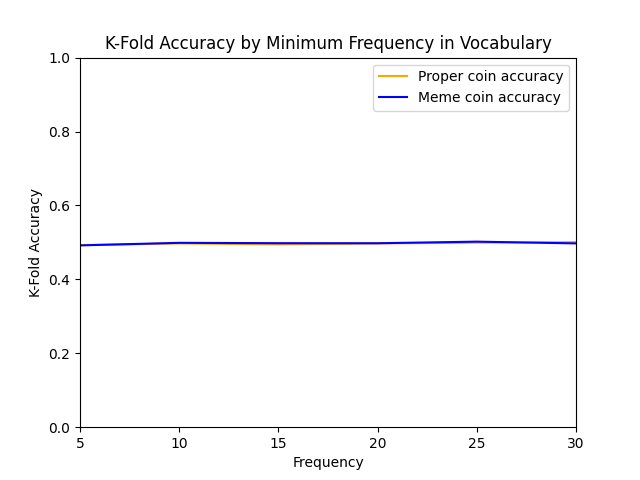
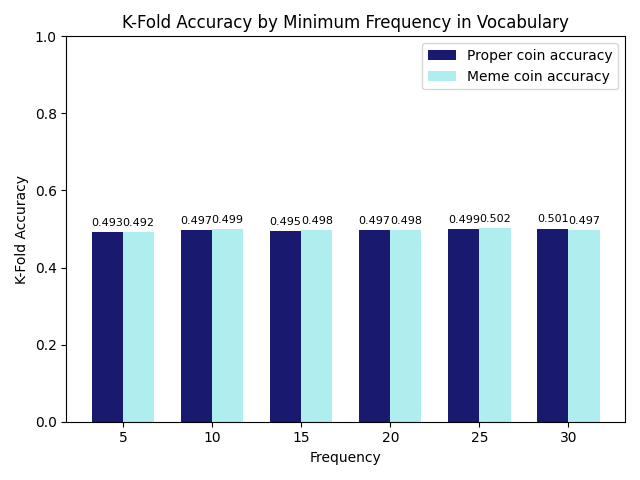
Changed visualizations

diff --git a/final_deliverable/code/ML_redesign/ml.py b/final_deliverable/code/ML_redesign/ml.py
@@ -8,9 +8,10 @@ from sklearn.model_selection import KFold
 from preprocess import create_input_data
 import json
 import matplotlib.pyplot as plt
+import numpy as np
 
 # Set boolean for whether testing should take place
-TESTING = True
+TESTING = False
 
 '''
 This file creates the RNN model, calls for pre-processing, and trains the model on the input data using
@@ -123,7 +124,7 @@ def train_split(X, Y, model):
     model: Input RNN model to train
     '''
     optimizer = optim.Adam(model.parameters(), lr=model.learning_rate)
-    for i in range(len(X)):
+    for i in range(5):
         if i % 1000 == 0:
             print(f'Model has trained on {i} examples.')
         hidden = model.initHidden()
@@ -209,16 +210,21 @@ def test_frequency():
     with open(ROOT_DIR + "/testing_files/frequency_meme_acc.json", "w") as f:
         json.dump(meme_accuracies, f)
     # Plot the results
+    width = 0.35
+    x_loc = np.arange(len(frequencies))
     fig, ax = plt.subplots()
-    plt.xlim([5, 30])
+    rects1 = ax.bar(x_loc - width/2, prop_accuracies, width, label='Proper coin accuracy', color='midnightblue')
+    rects2 = ax.bar(x_loc + width/2, meme_accuracies, width, label='Meme coin accuracy', color='paleturquoise')
+    # Add some text for labels, title and custom x-axis tick labels, etc.
     plt.ylim([0, 1])
-    ax.plot(frequencies, prop_accuracies, "orange", label='Proper coin accuracy')
-    ax.plot(frequencies, meme_accuracies, "blue", label='Meme coin accuracy')
-    # setting labels
     ax.set_xlabel("Frequency")
     ax.set_ylabel("K-Fold Accuracy")
     ax.set_title("K-Fold Accuracy by Minimum Frequency in Vocabulary")
-    plt.legend()
+    ax.set_xticks(x_loc, frequencies)
+    ax.legend(loc="upper right")
+    ax.bar_label(rects1, padding=3, fontsize=8)
+    ax.bar_label(rects2, padding=3, fontsize=8)
+    fig.tight_layout()
     plt.savefig(ROOT_DIR + "/../../visualizations/frequency_testing_graph.png")
     plt.show()
 
@@ -270,16 +276,21 @@ def test_learning_rate(proper_X, proper_Y, meme_X, meme_Y):
     with open(ROOT_DIR + "/testing_files/learning_rate_meme_acc.json", "w") as f:
         json.dump(meme_accuracies, f)
     # Plot the results
+    width = 0.35
+    x_loc = np.arange(len(learning_rates))
     fig, ax = plt.subplots()
-    plt.xlim([-5, 0])
+    rects1 = ax.bar(x_loc - width/2, prop_accuracies, width, label='Proper coin accuracy', color='midnightblue')
+    rects2 = ax.bar(x_loc + width/2, meme_accuracies, width, label='Meme coin accuracy', color='paleturquoise')
+    # Add some text for labels, title and custom x-axis tick labels, etc.
     plt.ylim([0, 1])
-    ax.plot(learning_rates, prop_accuracies, "orange", label='Proper coin accuracy')
-    ax.plot(learning_rates, meme_accuracies, "blue", label='Meme coin accuracy')
-    # setting labels
     ax.set_xlabel("Learning Rate (log unit)")
     ax.set_ylabel("K-Fold Accuracy")
     ax.set_title("K-Fold Accuracy by Learning Rate")
-    plt.legend()
+    ax.set_xticks(x_loc, learning_rates)
+    ax.legend(loc="upper right")
+    ax.bar_label(rects1, padding=3, fontsize=8)
+    ax.bar_label(rects2, padding=3, fontsize=8)
+    fig.tight_layout()
     plt.savefig(ROOT_DIR + "/../../visualizations/learning_rate_testing_graph.png")
     plt.show()
 
@@ -317,7 +328,7 @@ def test_hidden_size(proper_X, proper_Y, meme_X, meme_Y):
         print(f'Meme coin dataset accuracy for hidden size {hidden_size} is {meme_acc}')
         print('——————————————————————————————————————————————————————————')
         with open(ROOT_DIR + "/testing_files/hidden_size_testing.txt", "a") as file:
-            file.write(str(10 ** (-i)) + ', ' + str(proper_acc) + ', ' + str(meme_acc) + '\n')
+            file.write(str(2 ** i) + ', ' + str(proper_acc) + ', ' + str(meme_acc) + '\n')
     # Dump accuracy data into json for safety due to high training times
     if path.isfile(ROOT_DIR + "/testing_files/hidden_sizes.json"):
         os.remove(ROOT_DIR + "/testing_files/hidden_sizes.json")
@@ -332,47 +343,55 @@ def test_hidden_size(proper_X, proper_Y, meme_X, meme_Y):
     with open(ROOT_DIR + "/testing_files/hidden_size_meme_acc.json", "w") as f:
         json.dump(meme_accuracies, f)
     # Plot the results
+    width = 0.35
+    x_loc = np.arange(len(hidden_sizes))
     fig, ax = plt.subplots()
-    plt.xlim([6, 10])
+    rects1 = ax.bar(x_loc - width/2, prop_accuracies, width, label='Proper coin accuracy', color='midnightblue')
+    rects2 = ax.bar(x_loc + width/2, meme_accuracies, width, label='Meme coin accuracy', color='paleturquoise')
+    # Add some text for labels, title and custom x-axis tick labels, etc.
     plt.ylim([0, 1])
-    ax.plot(hidden_sizes, prop_accuracies, "orange", label='Proper coin accuracy')
-    ax.plot(hidden_sizes, meme_accuracies, "blue", label='Meme coin accuracy')
-    # setting labels
     ax.set_xlabel("Hidden Size (log_2 unit)")
     ax.set_ylabel("K-Fold Accuracy")
     ax.set_title("K-Fold Accuracy by RNN Hidden Layer Size")
-    plt.legend()
+    ax.set_xticks(x_loc, hidden_sizes)
+    ax.legend(loc="upper right")
+    ax.bar_label(rects1, padding=3, fontsize=8)
+    ax.bar_label(rects2, padding=3, fontsize=8)
+    fig.tight_layout()
     plt.savefig(ROOT_DIR + "/../../visualizations/hidden_size_testing_graph.png")
     plt.show()
 
 
 def main():
     '''
-    # Retrieves the proper and meme datasets, then trains the model on them and finds the average k-fold accuracy.
-    # '''
-    frequency = 30
+    Retrieves the proper and meme datasets, then trains the model on them and finds the average k-fold accuracy.
+    '''
     # Change TESTING value at top of file to run testing
+    frequency = 30
     if TESTING:
-        # test_frequency()
+        test_frequency()
         print('\n\nCreating data for RNN model.')
         proper_X, proper_Y, meme_X, meme_Y = get_data(frequency)
         print('——————————————————————————————————————————————————————————')
-        # test_learning_rate(proper_X, proper_Y, meme_X, meme_Y)
+        test_learning_rate(proper_X, proper_Y, meme_X, meme_Y)
         test_hidden_size(proper_X, proper_Y, meme_X, meme_Y)
     else:
         print('\n\nCreating data for RNN model.')
         proper_X, proper_Y, meme_X, meme_Y = get_data(frequency)
         print('——————————————————————————————————————————————————————————')
         # Optimal hyperparameter settings:
-        hidden_size = 128
-        learning_rate = 0.01
+        prop_hidden_size = 2 ** 8
+        prop_learning_rate = 0.1
         print('Begin training on proper coin dataset.')
-        proper_acc = run(proper_X, proper_Y, hidden_size, NUM_SPLITS, learning_rate)
+        proper_acc = run(proper_X, proper_Y, prop_hidden_size, NUM_SPLITS, prop_learning_rate)
         print('Done training on proper coin dataset!\n\n')
         print('——————————————————————————————————————————————————————————')
         # Train on meme coin data
+        # Optimal hyperparameter settings:
+        meme_hidden_size = 2 ** 9
+        meme_learning_rate = 0.00001
         print('Begin training on meme coin dataset.')
-        meme_acc = run(meme_X, meme_Y, hidden_size, NUM_SPLITS, learning_rate)
+        meme_acc = run(meme_X, meme_Y, meme_hidden_size, NUM_SPLITS, meme_learning_rate)
         print('Done training on meme coin dataset!\n\n')
         print('——————————————————————————————————————————————————————————')
         print('The model obtained the following training accuracies:\n')

diff --git a/final_deliverable/code/ML_redesign/README.md b/final_deliverable/code/ML_redesign/README.md
@@ -56,6 +56,6 @@ The hyperparameters are set at the top of the ml.py file and are as follows.
 - CONSTANT 'n_splits': (int) Number of splits for the k-fold cross validation, a.k.a. the variable 'k' in 'k-fold'. Default set to 4.
 - TESTED 'hidden_size': (int) Number of parameters in hidden linear layer of RNN model.
 
-## Credits
+## Acknowledgements
 
 The RNN learning architecture in ml.py was inspired by [this](https://pytorch.org/tutorials/intermediate/char_rnn_classification_tutorial.html) publicly avaiable model on pytorch.org.
